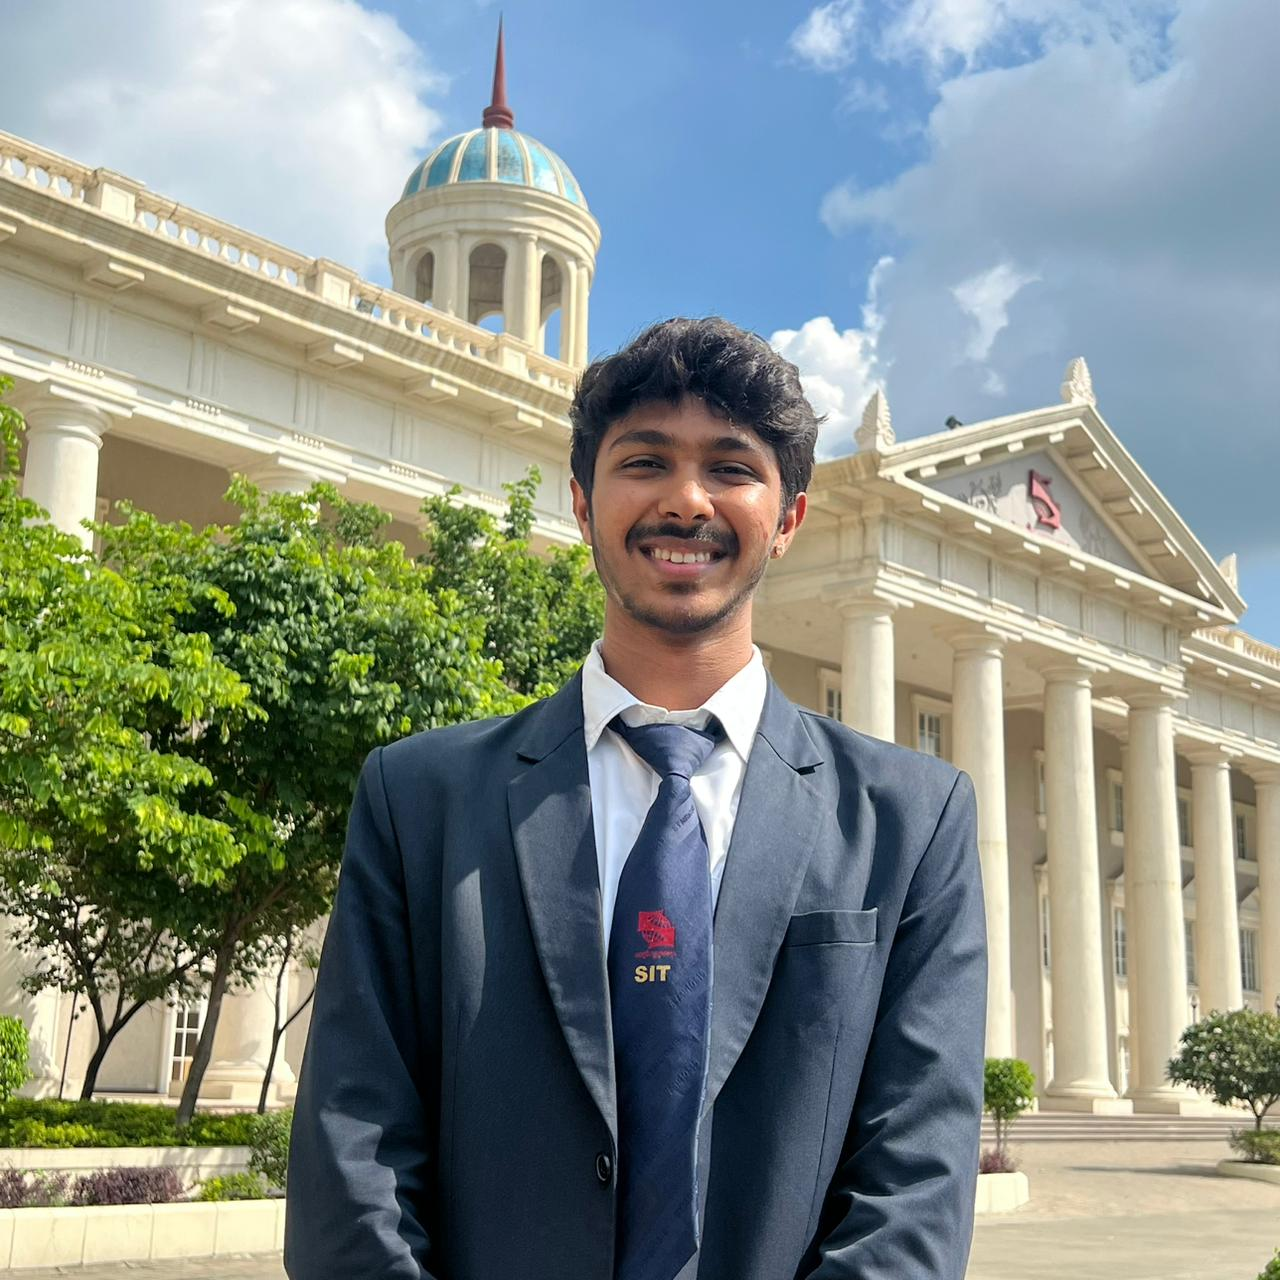
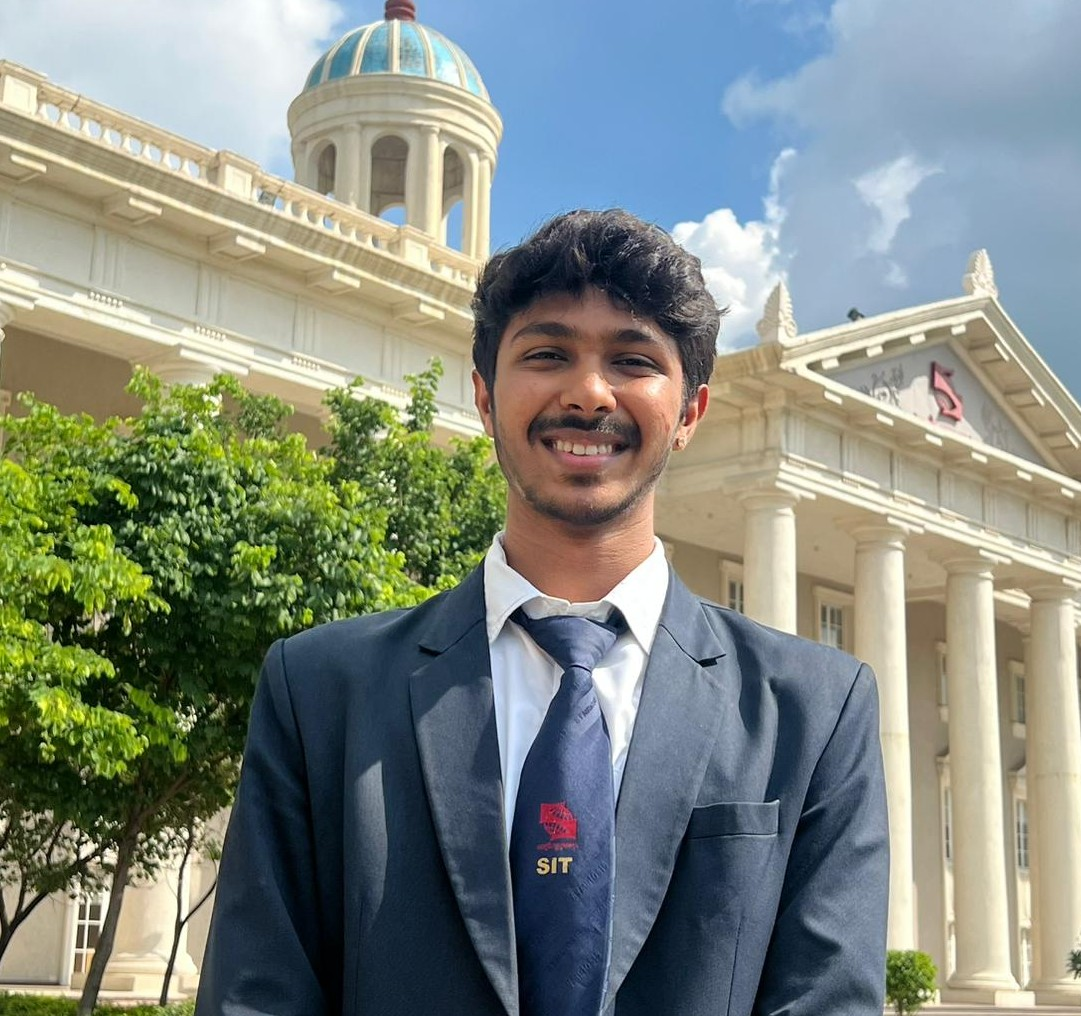
Nothing

diff --git a/src/TeamChroma.jsx b/src/TeamChroma.jsx
@@ -86,7 +86,7 @@ const TeamChroma = () => {
       url: "https://linkedin.com"
     },
     {
-      image: "/Jash.jpg", // Using existing image
+      image: "/Jash.jpg",
       title: "Jash Chauhan",
       subtitle: "Event Manager",
       handle: "@jashchauhan",
@@ -123,6 +123,7 @@ const TeamChroma = () => {
     
     // Core Members
     {
+      image: "/Jasraj.jpg",
       title: "Jasraj Singh Ataliya",
       subtitle: "Core Member",
       handle: "@jasrajsingh",
